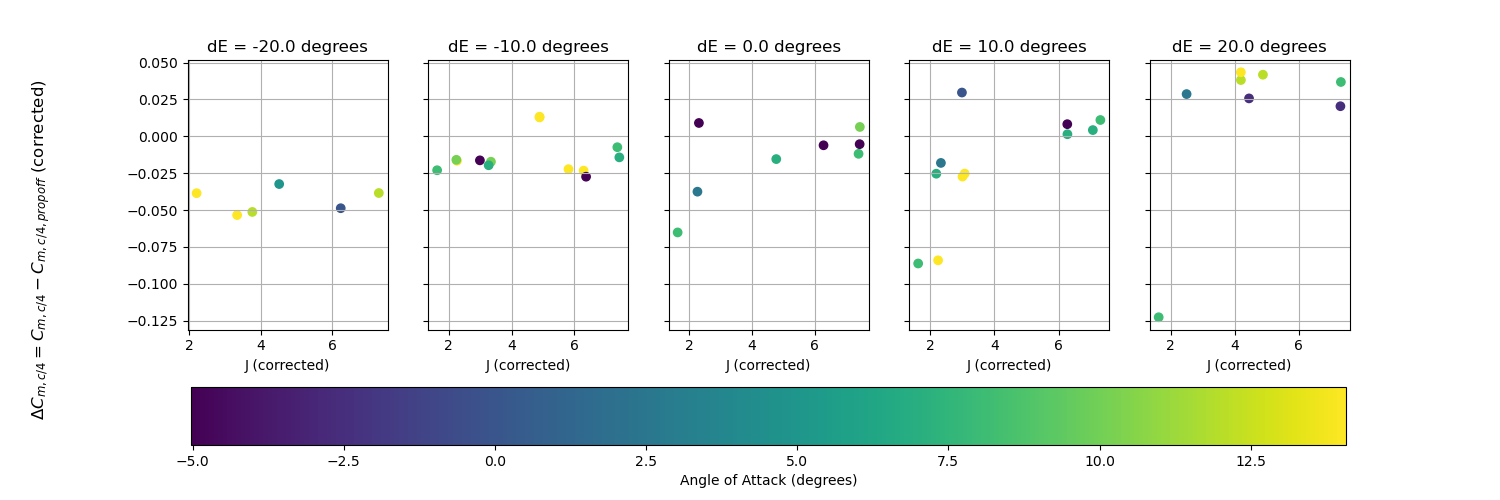
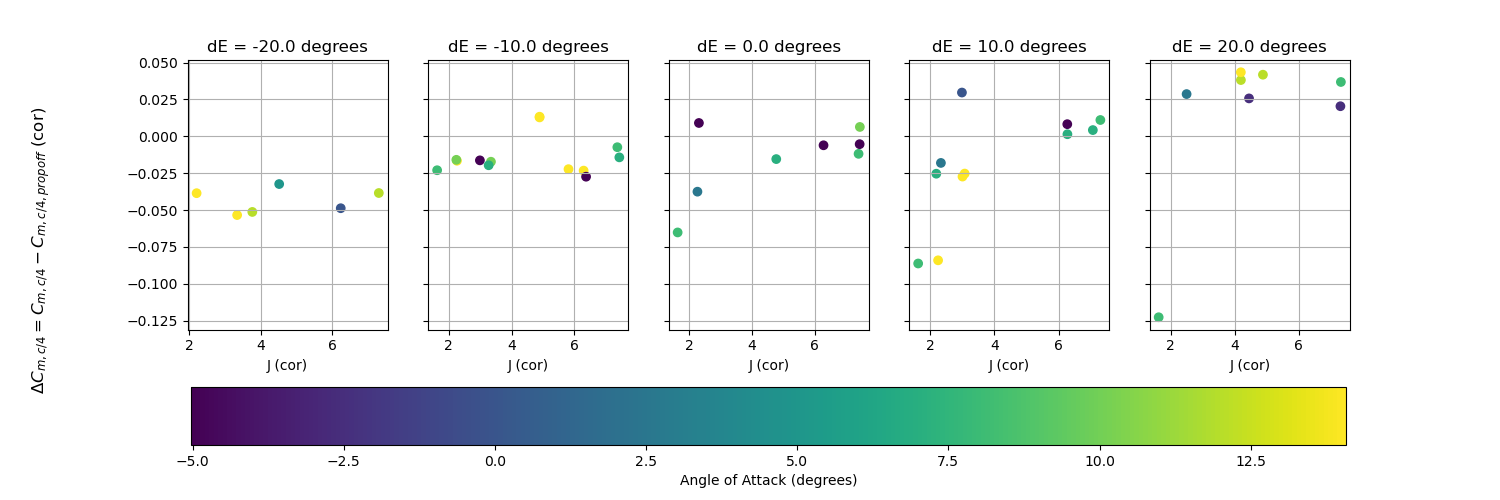
gooder thrust

diff --git a/main.py b/main.py
@@ -8,10 +8,12 @@ matplotlib.use('TkAgg')
 import matplotlib.colors as colors
 import matplotlib.cm as cm
 from motor_efficiency_calculator import get_motor_efficiency
+import pandas as pd
+import pingouin as pg
 
 
 if __name__=='__main__':
-    data_normal_configuration = loaded_data('data/normal_config.mat', 'normal_config').filter(test_point_id__ne='zero_extra')
+    data_normal_configuration = loaded_data('data/normal_config.mat', 'normal_config').filter(test_point_id__ne='zero_extra', wind_condition='windOn').filter(test_point_id__ne='NoiseBG1').filter(test_point_id__ne='NoiseBG2').filter(test_point_id__ne='NoiseBG3')
     data_tailoff = loaded_data('data/tailoff.mat', 'tailoff')
     data_propoff = loaded_data('data/propoff.mat', 'propoff').filter(AoS__le=0.0005, AoS__ge=-0.0005)
     data_modeloff = loaded_data('data/modeloff.mat', 'modeloff')
@@ -24,6 +26,8 @@ if __name__=='__main__':
         'C_P_shaft': {'fit': False, 'y_label': r'$C_P$ (shaft)', 'y_data': 'prop_shaft_power', 'with_10_mps': False, 'x_data': 'J_cor', 'x_label': 'J', 'c_data': 'AoA_cor', 'c_label': 'Angle of Attack (degrees)'},
         'C_D': {'fit': False, 'y_label': r'$C_D$', 'y_data': 'CD_cor', 'with_10_mps': False, 'x_data': 'J_cor', 'x_label': 'J', 'c_data': 'AoA_cor', 'c_label': 'Angle of Attack (degrees)'},
         'C_L': {'fit': False, 'y_label': r'$C_L$', 'y_data': 'CL_cor', 'with_10_mps': False, 'x_data': 'J_cor', 'x_label': 'J', 'c_data': 'AoA_cor', 'c_label': 'Angle of Attack (degrees)'},
+        'DC_L':{'fit': False, 'y_label': r'$\Delta C_L = C_L - C_{L,propoff}$', 'y_data': 'DCL_cor', 'with_10_mps': False, 'x_data': 'J_cor', 'x_label': 'J', 'c_data': 'AoA_cor', 'c_label': 'Angle of Attack (degrees)'},
+        'DC_D': {'fit': False, 'y_label': r'$\Delta C_D = C_D - C_{D,propoff}$', 'y_data': 'DCD_cor', 'with_10_mps': False, 'x_data': 'J_cor', 'x_label': 'J', 'c_data': 'AoA_cor', 'c_label': 'Angle of Attack (degrees)'},
         'C_mc4': {'fit': False, 'y_label': r'$C_{m,c/4}$', 'y_data': 'C_m_c4_cor', 'with_10_mps': False, 'x_data': 'J_cor', 'x_label': 'J', 'c_data': 'AoA_cor', 'c_label': 'Angle of Attack (degrees)'},
         'C_T': {'fit': False, 'y_label': r'$C_T$', 'y_data': 'C_T_cor', 'with_10_mps': False, 'x_data': 'J_cor', 'x_label': 'J', 'c_data': 'AoA_cor', 'c_label': 'Angle of Attack (degrees)'},
         'C_T_with_fit': {'fit': 'C_T', 'y_label': r'$C_T$', 'y_data': 'C_T_cor', 'with_10_mps': False, 'x_data': 'J_cor', 'x_label': 'J', 'c_data': 'AoA_cor', 'c_label': 'Angle of Attack (degrees)'},
@@ -40,7 +44,8 @@ if __name__=='__main__':
     #elev_approx_10 = data_normal_configuration.filter(dE__ge=9.5, dE__le=10.5, test_point_id__ne='46', wind_condition='windOn')  # Use 'windOff' for wind-off data
     #propoff_basi = data_propoff.filter(dE__ge=9.5, dE__le=10.5,V__ge=29.5,V__le=30.5,dR__ge=-0.5, dR__le=0.5,AoS__ge=-0.0005, AoS__le=0.0005,wind_condition='windOn')  # Use 'windOff' for wind-off data
     #print(propoff_basi['AoS'].values)
-    corrected_data = {}
+    #df_pd = data_normal_configuration.to_dataframe()
+    dat_correl = {'CL': [], 'DCL': [], 'CD': [], 'DCD': [], 'CT': [], 'Cmc4': [], 'DCmc4': [], 'AoA': [], 'J': [], 'dE': []}
     dE_list = data_normal_configuration['dE'].values.compressed()
     dE_list = dE_list[~np.isnan(dE_list)]
     dE_list = np.unique(dE_list)
@@ -52,9 +57,9 @@ if __name__=='__main__':
         scatters = []
         for indd, dE in enumerate(dE_list):
             if not list_of_plots[plotting]['with_10_mps']:
-                elev_chosen = data_normal_configuration.filter(dE__ge=dE-0.5, dE__le=dE+0.5, wind_condition='windOn', test_point_id__ne='NoiseBG1' ,V__ge=10.5).filter(test_point_id__ne='NoiseBG2').filter(test_point_id__ne='NoiseBG3')
+                elev_chosen = data_normal_configuration.filter(dE__ge=dE-0.5, dE__le=dE+0.5 ,V__ge=10.5)
             else:
-                elev_chosen = data_normal_configuration.filter(dE__ge=dE-0.5, dE__le=dE+0.5, test_point_id__ne='NoiseBG1', wind_condition='windOn').filter(test_point_id__ne='NoiseBG2').filter(test_point_id__ne='NoiseBG3')
+                elev_chosen = data_normal_configuration.filter(dE__ge=dE-0.5, dE__le=dE+0.5)
             V_uncor = elev_chosen['V'].values
 
 
@@ -141,7 +146,7 @@ if __name__=='__main__':
             V_propoff_uncor = np.array(V_propoff_uncor)
             C_m_c4_uncor = elev_chosen['CMpitch25c'].values
 
-            C_T_uncor = (S/D**2) * (J_uncor**2/(2*np.cos(np.deg2rad(AoA_uncor)))) *(CBX_propoff_uncor*V_propoff_uncor**2/( V_uncor**2) - CBX_uncor)  # During iteration change order of operations so that uncorr values are used when needed
+            C_T_uncor = (S/D**2) * (J_uncor**2/(2*np.cos(np.deg2rad(AoA_uncor)))) *(CBX_propoff_uncor*V_propoff_uncor**2/( V_uncor**2) - CBX_uncor)
             propulsive_power_uncor = C_T_uncor * J_uncor
             if plotting == 'C_P_shaft' or plotting == 'C_P_shaft_with_10_mps' or plotting == 'eta_recuperation' or plotting == 'eta_recuperation_with_10_mps' or plotting == 'eta_propulsive' or plotting == 'eta_propulsive_with_10_mps':
                 propulsive_efficiency_uncor = propulsive_power_uncor / prop_shaft_power
@@ -171,7 +176,9 @@ if __name__=='__main__':
             if cdat_min > np.min(plotcdata):
                 cdat_min = np.min(plotcdata)
             DCm_c4_cor = C_m_c4_cor - CM_c4_propoff
-            C_T_cor = (J_cor**2/(2*np.cos(np.deg2rad(AoA_cor)))) * (S/D**2) * (CD_cor - CBX_uncor*((V_uncor**2)/(V_cor**2)))
+            DCL_cor = CL_cor - CL_propoff
+            DCD_cor = CD_cor - CBX_propoff
+            C_T_cor = C_T_uncor * (V_uncor**2)/(V_cor**2) #(J_cor**2/(2*np.cos(np.deg2rad(AoA_cor)))) * (S/D**2) * (CD_cor - CBX_uncor*((V_uncor**2)/(V_cor**2)))
             propulsive_power_cor = C_T_cor * J_cor
             if plotting == 'C_P_shaft' or plotting == 'C_P_shaft_with_10_mps' or plotting == 'eta_recuperation' or plotting == 'eta_recuperation_with_10_mps' or plotting == 'eta_propulsive' or plotting == 'eta_propulsive_with_10_mps':
                 propulsive_efficiency_cor = propulsive_power_cor / prop_shaft_power
@@ -200,10 +207,20 @@ if __name__=='__main__':
                 ax[indd].plot(J_linspace, -0.0051*J_linspace**4 + 0.0959*J_linspace**3 - 0.5888*J_linspace**2 + 1.0065*J_linspace - 0.1353, label='fit', ls='-', marker='o', markersize=1)
 
             ax[indd].set_title(f"dE = {dE} degrees")
-            ax[indd].set_xlabel(f"{list_of_plots[plotting]['x_label']} (corrected)")
-            fig.supylabel(f"{list_of_plots[plotting]['y_label']} (corrected)")
+            ax[indd].set_xlabel(f"{list_of_plots[plotting]['x_label']} (cor)")
+            fig.supylabel(f"{list_of_plots[plotting]['y_label']} (cor)")
             ax[indd].grid()
             print(indd)
+            dat_correl['CL'].extend(CL_cor.reshape(-1))
+            dat_correl['DCL'].extend(DCL_cor.reshape(-1))
+            dat_correl['CD'].extend(CD_cor.reshape(-1))
+            dat_correl['DCD'].extend(DCD_cor.reshape(-1))
+            dat_correl['CT'].extend(C_T_cor.reshape(-1))
+            dat_correl['Cmc4'].extend(C_m_c4_cor.reshape(-1))
+            dat_correl['DCmc4'].extend(DCm_c4_cor.reshape(-1))
+            dat_correl['AoA'].extend(AoA_cor)
+            dat_correl['J'].extend(J_cor.reshape(-1))
+            dat_correl['dE'].extend([dE] * len(J_cor.reshape(-1)))
 
 
 
@@ -242,6 +259,8 @@ if __name__=='__main__':
             #         CL_alpha=0.11106,  #from prop off data but needs to be refined to make exact,
             #         test_point_ids=prop_off_comparision_list['test_point_id'],
             #         )
+        df_pd = pd.DataFrame(dat_correl)[['DCD', 'AoA', 'J', 'dE']]
+        print(df_pd.pcorr())
         cmap = plt.cm.viridis
         norm = colors.Normalize(vmin=cdat_min, vmax=cdat_max)
         for scc in scatters:

diff --git a/data/datareader.py b/data/datareader.py
@@ -3,6 +3,7 @@ import numpy as np
 import copy
 from numpy.lib import recfunctions as rfn
 import matplotlib.pyplot as plt
+import pandas as pd
 
 
 FIELD_EXPLANATIONS = {
@@ -476,6 +477,23 @@ class loaded_data:
                     returner.append(self.datarr[field])
         returner = np.array(returner)
         return returner
+
+    #pd dataframe:
+    def to_dataframe(self, acoustic=False):
+        if not acoustic:
+            data_dict = {field: self.datarr[field][0][0].ravel() for field in self.datarr.dtype.names if np.shape(self.datarr[field][0][0])[1] == 1}
+            for field in self.datarr.dtype.names:
+                if np.shape(self.datarr[field][0][0])[1] != 1:
+                    for ind in range(np.shape(self.datarr[field][0][0])[1]):
+                        data_dict[f"{field}_{ind}"] = self.datarr[field][0][0][:, ind].ravel()
+        else:
+            data_dict = {field: self.datarr[field].ravel() for field in self.datarr.dtype.names if np.shape(self.datarr[field])[1] == 1}
+            for field in self.datarr.dtype.names:
+                if self.datarr[field].ndim != 1:
+                    for ind in range(np.shape(self.datarr[field])[1]):
+                        data_dict[f"{field}_{ind}"] = self.datarr[field][:, ind].ravel()
+        df = pd.DataFrame(data_dict)
+        return df
 
     def __str__(self):
         fields = self.datarr.dtype.names
